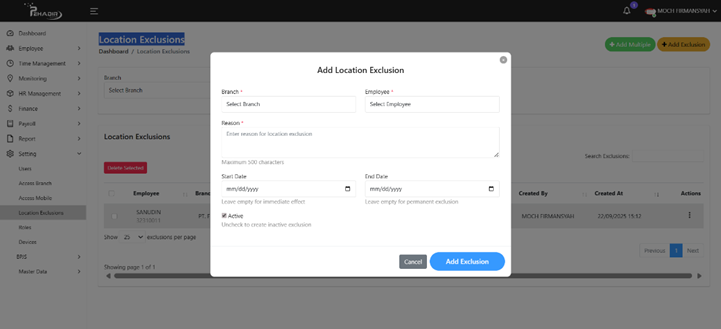
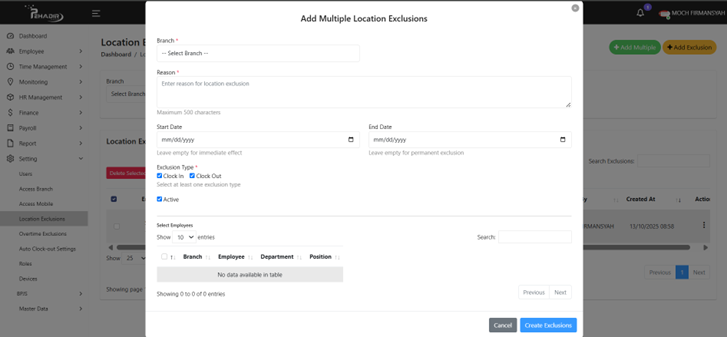
update fitur location exclusion

diff --git a/resources/views/website/fiturLocationExclusions.blade.php b/resources/views/website/fiturLocationExclusions.blade.php
@@ -77,6 +77,15 @@
                     <li><b>Employee:</b> Pilih pegawai yang akan dikenai pengecualian (hanya satu karyawan per form).</li>
                     <li><b>Reason:</b> Alasan pengecualian.</li>
                     <li><b>Start and End Date:</b> Tanggal mulai dan berakhirnya pengecualian.</li>
+                    <li><b>Pilih Exclusion Type :</b> </li>
+                    <li>
+
+                        Clock In → di gunakan untuk karyawan yang bekerja di luar kantor atau lokasi tertentu.
+                    </li>
+                    <li>
+
+                        Clock Out → di gunakan untuk jika jam pulang di lakukan dari lokasi yang berbeda.
+                    </li>
                     <li><b>Active:</b> Pilih status aktif atau tidak.</li>
                 </ul>
                 <p>Klik tombol <b>Add Exclusion</b> untuk menyimpan data.</p>
